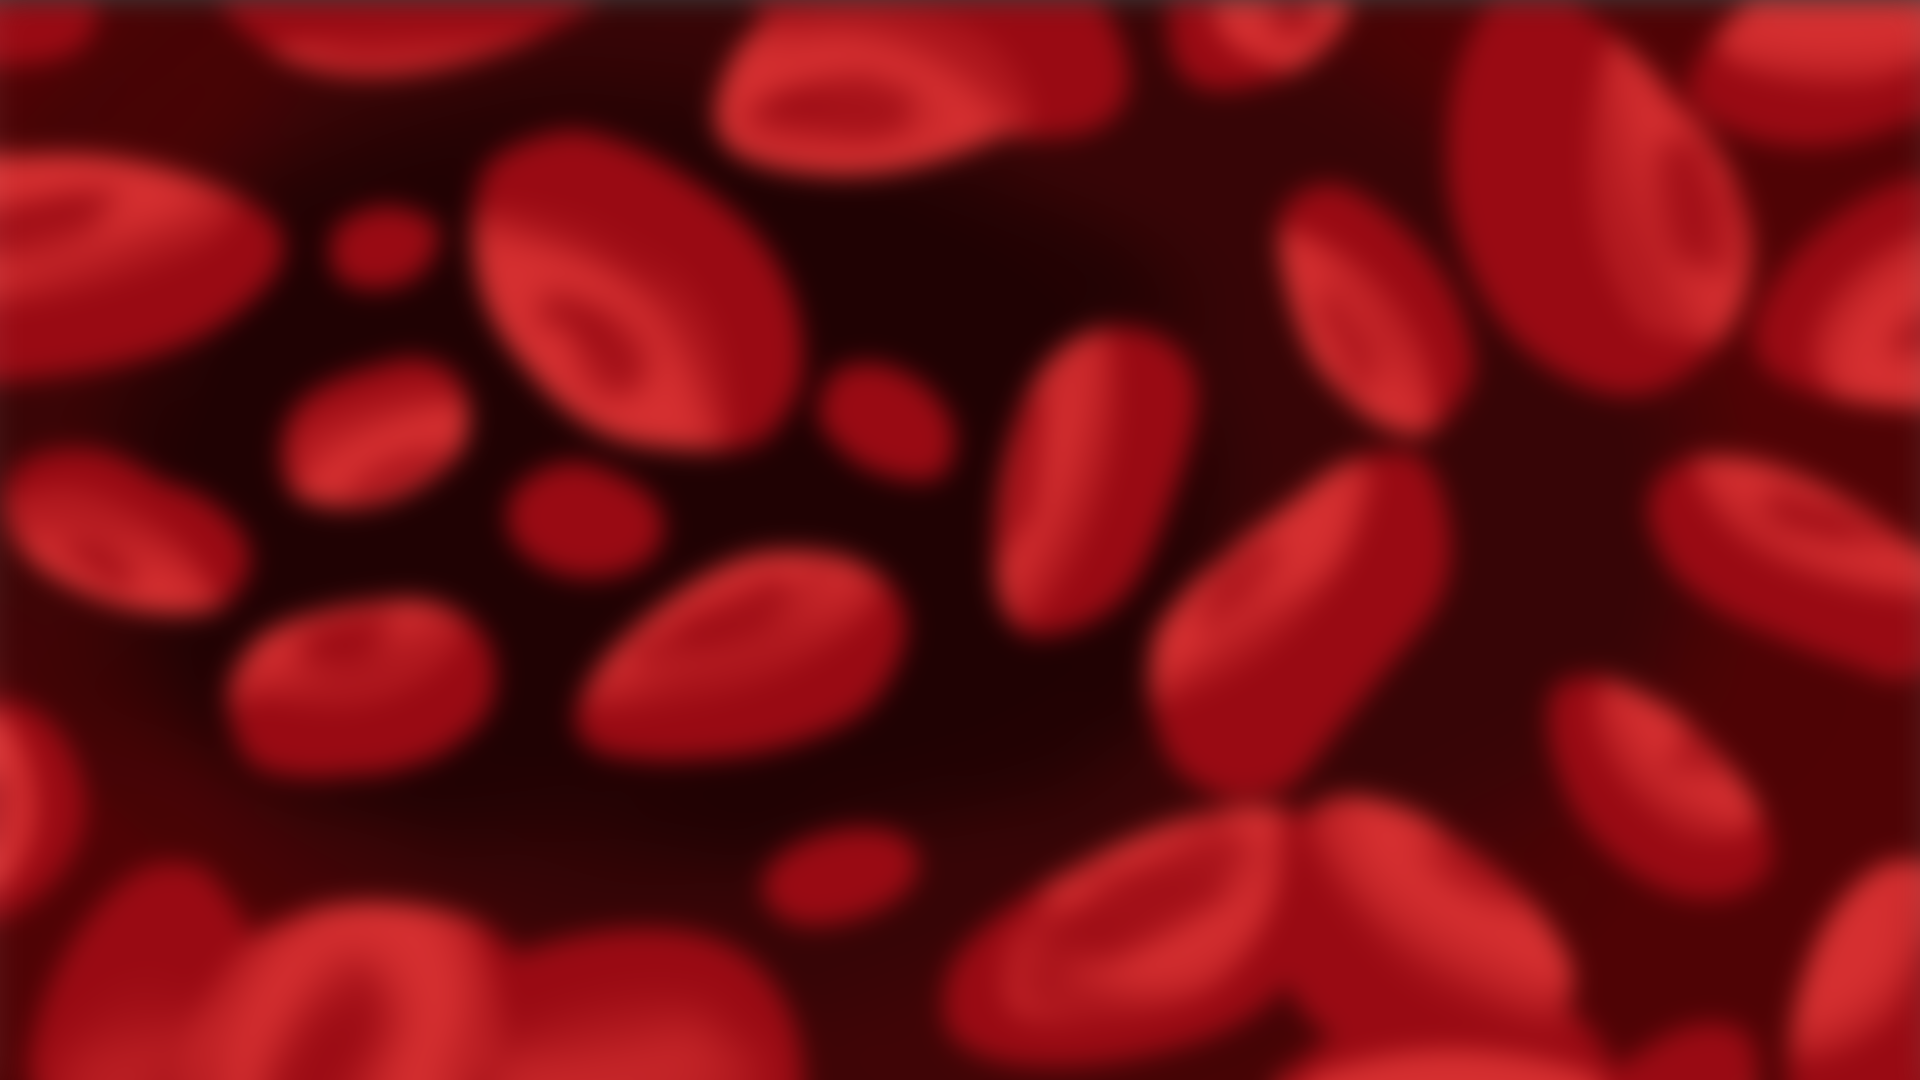
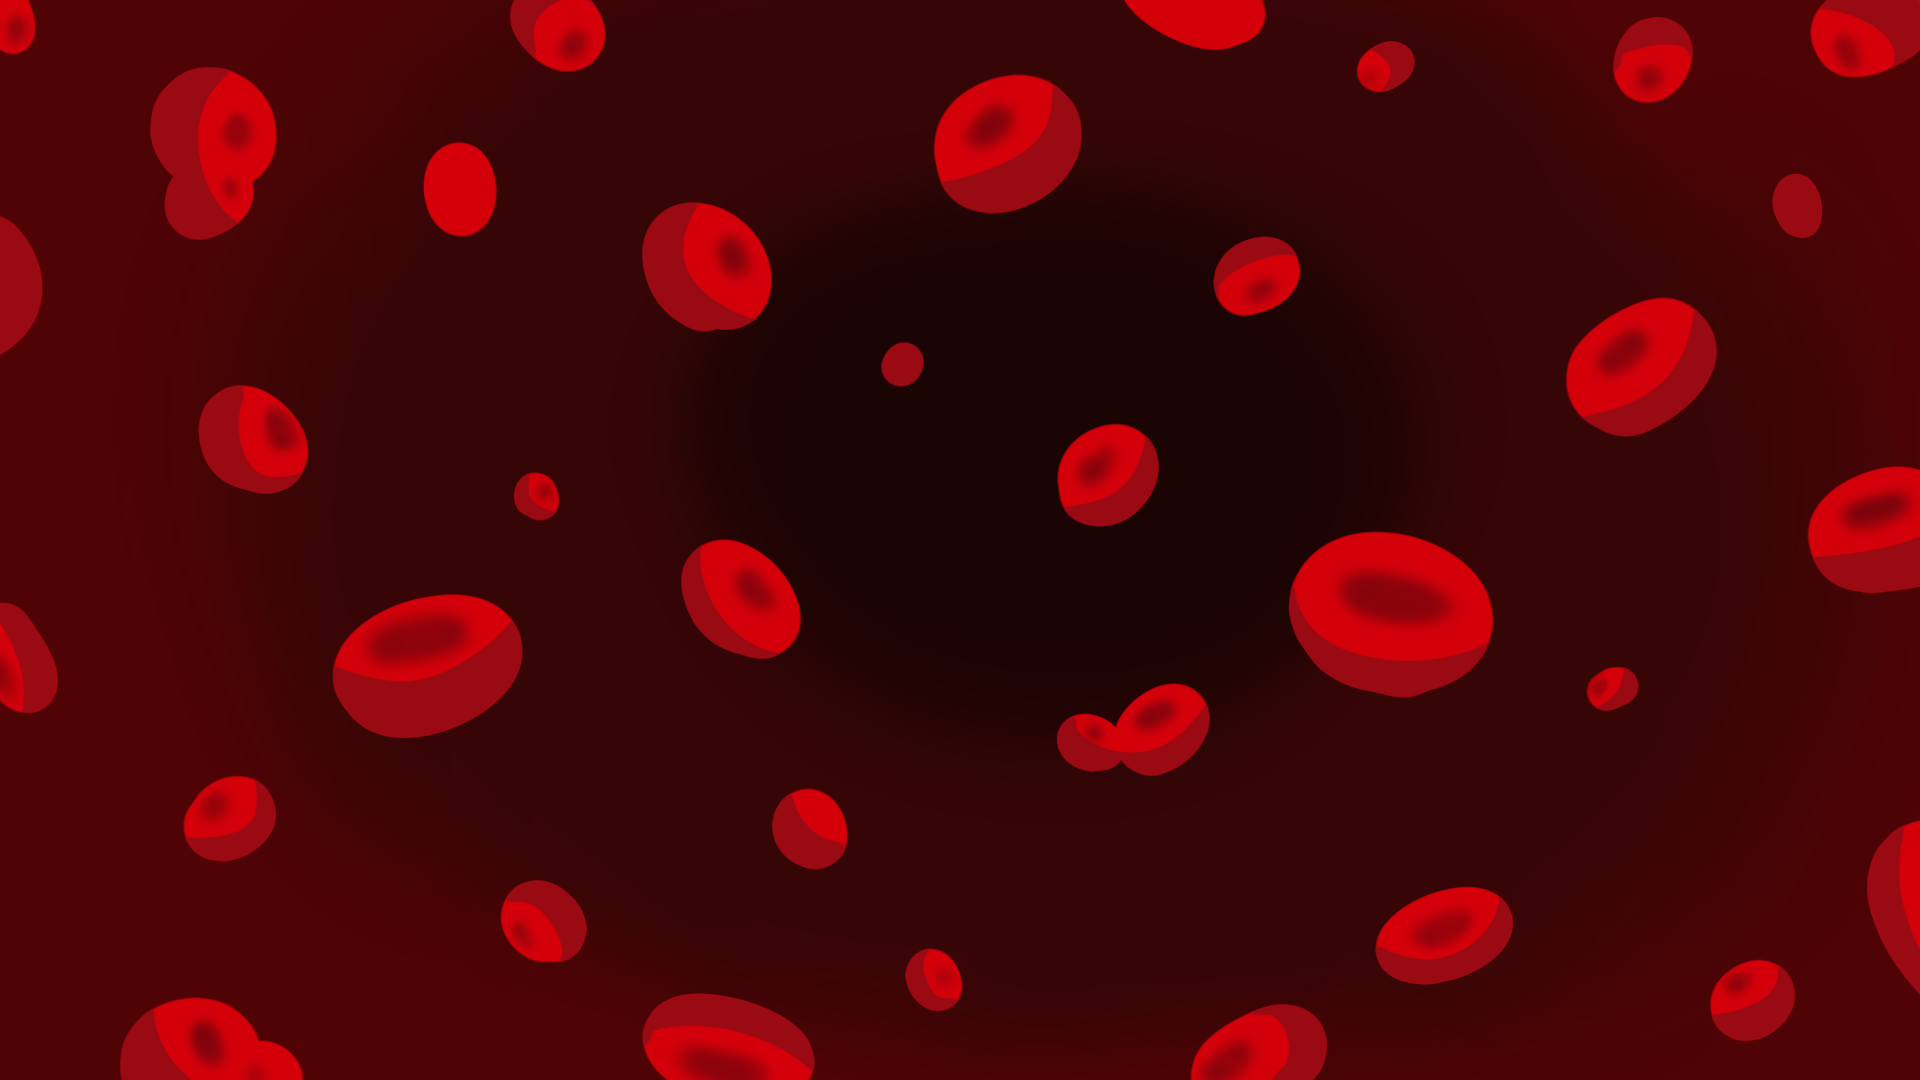
이미지 변경 및 기억안남

diff --git a/Space/Monster.cpp b/Space/Monster.cpp
@@ -13,59 +13,110 @@ Monster::Monster(int Version)
 	,disc(30)
 	,didr(30)
 {
-	srand(time(NULL));
+	
 	m_Version = Version;
-	if (Version == 1)
+	if (m_Version == 1)
 	{
-		m_Monster = Sprite::Create(L"Painting/SpeedMonster.png");
+		m_Monster = Sprite::Create(L"Painting/SpeedMonster1.png");
 		m_Monster->SetParent(this);
 
 		int randomx = rand() % 1900 + 10;
 		int randomy = rand() % 1070 + 10;
-
+		printf("%d %d \n", randomx, randomy);
 		SetPosition(randomx, randomy);
 
 		m_BossCheck = false;
 	}
-	else if (Version == 2)
+	else if (m_Version == 2)
 	{
-		m_Monster = Sprite::Create(L"Painting/BigMonster.png");
+		m_Monster = Sprite::Create(L"Painting/BigMonster1.png");
 		m_Monster->SetParent(this);
 
 		int randomx = rand() % 1900 + 10;
 		int randomy = rand() % 1070 + 10;
-
+		printf("%d %d \n", randomx, randomy);
 		SetPosition(randomx, randomy);
 
 		m_BossCheck = false;
 	}
-	else if (Version == 3)
+	else if (m_Version == 3)
 	{
-		m_Monster = Sprite::Create(L"Painting/FlashMonster.png");
+		m_Monster = Sprite::Create(L"Painting/FlashMonster1.png");
 		m_Monster->SetParent(this);
-
-		int randomx = rand() % 1900 + 10;
-		int randomy = rand() % 1070 + 10;
-
-		SetPosition(randomx, randomy);
+		
+		int randox = rand() % 1900 + 10;
+		int randoy = rand() % 1070 + 10;
+		printf("%d %d \n", randox, randoy);
+		SetPosition(randox, randoy);
 
 		m_BossCheck = false;
 	}
-	else if (Version == 4)
+	else if (m_Version == 4)
 	{
 		m_Monster = Sprite::Create(L"Painting/Boss.png");
 		m_Monster->SetParent(this);
 
 		int randomx = rand() % 1900 + 10;
 		int randomy = rand() % 1070 + 10;
-
+		printf("%d %d \n", randomx, randomy);
 		SetPosition(randomx, randomy);
 		m_BossCheck = true;
 	}
 
-	m_bPlayer = new Player();
 	
 	
+}
+
+Monster::Monster(int version, Vec2 pos)
+{
+	//m_Version = version;
+	//if (Version == 1)
+	//{
+	//	m_Monster = Sprite::Create(L"Painting/SpeedMonster1.png");
+	//	m_Monster->SetParent(this);
+
+	//	int randomx = rand() % 1900 + 10;
+	//	int randomy = rand() % 1070 + 10;
+	//	printf("%d %d \n", randomx, randomy);
+	//	SetPosition(randomx, randomy);
+
+	//	m_BossCheck = false;
+	//}
+	//if (Version == 2)
+	//{
+	//	m_Monster = Sprite::Create(L"Painting/BigMonster1.png");
+	//	m_Monster->SetParent(this);
+
+	//	int randomx = rand() % 1900 + 10;
+	//	int randomy = rand() % 1070 + 10;
+	//	printf("%d %d \n", randomx, randomy);
+	//	SetPosition(randomx, randomy);
+
+	//	m_BossCheck = false;
+	//}
+	//if (Version == 3)
+	//{
+	//	m_Monster = Sprite::Create(L"Painting/FlashMonster1.png");
+	//	m_Monster->SetParent(this);
+
+	//	int randox = rand() % 1900 + 10;
+	//	int randoy = rand() % 1070 + 10;
+	//	printf("%d %d \n", randox, randoy);
+	//	SetPosition(randox, randoy);
+
+	//	m_BossCheck = false;
+	//}
+	//if (Version == 4)
+	//{
+	//	m_Monster = Sprite::Create(L"Painting/Boss.png");
+	//	m_Monster->SetParent(this);
+
+	//	int randomx = rand() % 1900 + 10;
+	//	int randomy = rand() % 1070 + 10;
+	//	printf("%d %d \n", randomx, randomy);
+	//	SetPosition(randomx, randomy);
+	//	m_BossCheck = true;
+	//}
 }
 
 void Monster::Update(float deltatime, float time)
@@ -91,91 +142,6 @@ void Monster::Update(float deltatime, float time)
 	}
 
 
-
-	if (m_bPlayer->i >=1 && m_bPlayer->m_Length >=2 && (
-		(dist == 0 && disk == 0) ||
-		(dist == 0 && disc == 0) ||
-		(dist == 0 && didr == 0) ||
-		(disc == 0 && didr == 0) ||
-		(disc == 0 && disk == 0) ||
-		(disk == 0 && didr == 0)))
-	{
-		int x1 = m_bPlayer->m_PlayerPos[0].x < m_bPlayer->m_PlayerPos[1].x ? m_bPlayer->m_PlayerPos[0].x : m_bPlayer->m_PlayerPos[1].x;
-		int y1 = m_bPlayer->m_PlayerPos[0].y < m_bPlayer->m_PlayerPos[1].y ? m_bPlayer->m_PlayerPos[0].y : m_bPlayer->m_PlayerPos[1].y;
-		int x2 = m_bPlayer->m_PlayerPos[0].x > m_bPlayer->m_PlayerPos[1].x ? m_bPlayer->m_PlayerPos[0].x : m_bPlayer->m_PlayerPos[1].x;
-		int y2 = m_bPlayer->m_PlayerPos[0].y > m_bPlayer->m_PlayerPos[1].y ? m_bPlayer->m_PlayerPos[0].y : m_bPlayer->m_PlayerPos[1].y;
-
-		int x3 = m_bPlayer->m_PlayerPos[1].x < m_bPlayer->m_PlayerPos[2].x ? m_bPlayer->m_PlayerPos[1].x : m_bPlayer->m_PlayerPos[2].x;
-		int y3 = m_bPlayer->m_PlayerPos[1].y < m_bPlayer->m_PlayerPos[2].y ? m_bPlayer->m_PlayerPos[1].y : m_bPlayer->m_PlayerPos[2].y;
-		int x4 = m_bPlayer->m_PlayerPos[1].x > m_bPlayer->m_PlayerPos[2].x ? m_bPlayer->m_PlayerPos[1].x : m_bPlayer->m_PlayerPos[2].x;
-		int y4 = m_bPlayer->m_PlayerPos[1].y > m_bPlayer->m_PlayerPos[2].y ? m_bPlayer->m_PlayerPos[1].y : m_bPlayer->m_PlayerPos[2].y;
-
-		int x5 = m_bPlayer->m_PlayerPos[2].x < m_bPlayer->m_PlayerPos[3].x ? m_bPlayer->m_PlayerPos[2].x : m_bPlayer->m_PlayerPos[3].x;
-		int y5 = m_bPlayer->m_PlayerPos[2].y < m_bPlayer->m_PlayerPos[3].y ? m_bPlayer->m_PlayerPos[2].y : m_bPlayer->m_PlayerPos[3].y;
-		int x6 = m_bPlayer->m_PlayerPos[2].x > m_bPlayer->m_PlayerPos[3].x ? m_bPlayer->m_PlayerPos[2].x : m_bPlayer->m_PlayerPos[3].x;
-		int y6 = m_bPlayer->m_PlayerPos[2].y > m_bPlayer->m_PlayerPos[3].y ? m_bPlayer->m_PlayerPos[2].y : m_bPlayer->m_PlayerPos[3].y;
-
-		int x7 = m_bPlayer->m_PlayerPos[3].x < m_bPlayer->m_PlayerPos[4].x ? m_bPlayer->m_PlayerPos[3].x : m_bPlayer->m_PlayerPos[4].x;
-		int y7 = m_bPlayer->m_PlayerPos[3].y < m_bPlayer->m_PlayerPos[4].y ? m_bPlayer->m_PlayerPos[3].y : m_bPlayer->m_PlayerPos[4].y;
-		int x8 = m_bPlayer->m_PlayerPos[3].x > m_bPlayer->m_PlayerPos[4].x ? m_bPlayer->m_PlayerPos[3].x : m_bPlayer->m_PlayerPos[4].x;
-		int y8 = m_bPlayer->m_PlayerPos[3].y > m_bPlayer->m_PlayerPos[4].y ? m_bPlayer->m_PlayerPos[3].y : m_bPlayer->m_PlayerPos[4].y;
-
-		if (dist < 10 && m_Position.x >= x1 - 10 && m_Position.x <= x2 + 10 && m_Position.y >= y1 - 10 && m_Position.y <= y2 + 10)
-		{
-			if (m_CollideCheck == false)
-			{
-				m_bPlayer->m_PlayerHp -= 1;
-			}
-			m_CollideCheck = true;
-		}
-		else if (disc < 10 && m_Position.x >= x3 - 10 && m_Position.x <= x4 + 01 && m_Position.y >= y3 -10 && m_Position.y <= y4 + 9)
-		{
-			if (m_CollideCheck == false)
-			{
-				m_bPlayer->m_PlayerHp -= 1;
-			}
-			m_CollideCheck = true;
-		}
-		else if (disk < 10 && m_Position.x >= x5 - 10 && m_Position.x <= x6 + 10 && m_Position.y >= y5 - 10 && m_Position.y <= y6 + 9)
-		{
-			if (m_CollideCheck == false)
-			{
-				m_bPlayer->m_PlayerHp -= 1;
-			}
-			m_CollideCheck = true;
-		}
-		else if (didr < 10 && m_Position.x >= x7 - 10 && m_Position.x <= x8 + 10 && m_Position.y >= y7 - 10 && m_Position.y <= y8 + 9)
-		{
-			if (m_CollideCheck == false)
-			{
-				m_bPlayer->m_PlayerHp -= 1;
-			}
-			m_CollideCheck = true;
-		}
-		else
-		{
-			m_CollideCheck = false;
-		}
-	}
-	a = m_bPlayer->m_PlayerPos[0].y - m_bPlayer->m_PlayerPos[1].y;
-	b = m_bPlayer->m_PlayerPos[1].x - m_bPlayer->m_PlayerPos[0].x;
-	c = m_bPlayer->m_PlayerPos[0].x * m_bPlayer->m_PlayerPos[1].y - m_bPlayer->m_PlayerPos[1].x * m_bPlayer->m_PlayerPos[0].y;
-	dist = (float)std::abs(a * m_Position.x + b * m_Position.y + c) / (float)std::sqrt(a * a + b * b);
-
-	d = m_bPlayer->m_PlayerPos[1].y - m_bPlayer->m_PlayerPos[2].y;
-	e = m_bPlayer->m_PlayerPos[2].x - m_bPlayer->m_PlayerPos[1].x;
-	f = m_bPlayer->m_PlayerPos[1].x * m_bPlayer->m_PlayerPos[2].y - m_bPlayer->m_PlayerPos[2].x * m_bPlayer->m_PlayerPos[1].y;
-	disk = (float)std::abs(d * m_Position.x + e * m_Position.y + f) / (float)std::sqrt(d * d + e * e);
-
-	g = m_bPlayer->m_PlayerPos[2].y - m_bPlayer->m_PlayerPos[3].y;
-	h = m_bPlayer->m_PlayerPos[3].x - m_bPlayer->m_PlayerPos[2].x;
-	j = m_bPlayer->m_PlayerPos[2].x * m_bPlayer->m_PlayerPos[3].y - m_bPlayer->m_PlayerPos[3].x * m_bPlayer->m_PlayerPos[2].y;
-	disc = (float)std::abs(g * m_Position.x + h * m_Position.y + j) / (float)std::sqrt(g * g + h * h);
-
-	k = m_bPlayer->m_PlayerPos[3].y - m_bPlayer->m_PlayerPos[4].y;
-	l = m_bPlayer->m_PlayerPos[4].x - m_bPlayer->m_PlayerPos[3].x;
-	m = m_bPlayer->m_PlayerPos[3].x * m_bPlayer->m_PlayerPos[4].y - m_bPlayer->m_PlayerPos[4].x * m_bPlayer->m_PlayerPos[3].y;
-	didr = (float)std::abs(k * m_Position.x + l * m_Position.y + m) / (float)std::sqrt(k * k + l * l);
 
 
 }

diff --git a/Space/MainScene.cpp b/Space/MainScene.cpp
@@ -19,7 +19,7 @@ MainScene::~MainScene()
 void MainScene::Init()
 {
 	//ObjMgr->AddObject(new asd(), "123");
-	m_Sprite = Sprite::Create(L"Painting/Back1.png");
+	m_Sprite = Sprite::Create(L"Painting/Back3.png");
 	m_Sprite->SetPosition(1920 / 2, 1080 / 2);
 
 }
@@ -28,7 +28,7 @@ void MainScene::Release()
 {
 }
 
-void MainScene::Update(float deltaTime, float time)
+void MainScene::Update(float deltaTime, float Time)
 {
 	if (m_Check == false)
 	{
@@ -42,6 +42,7 @@ void MainScene::Update(float deltaTime, float time)
 
 			if (i >= 1920)
 			{
+
 				ObjMgr->AddObject(new Monster(1), "SpeedMonster");
 				ObjMgr->AddObject(new Monster(2), "BigMonster");
 				ObjMgr->AddObject(new Monster(3), "FlashMonster");
@@ -54,6 +55,18 @@ void MainScene::Update(float deltaTime, float time)
 			}
 		}
 	}
+
+	if (INPUT->GetKey(VK_F9) == KeyState::UP)
+	{
+		m_Sprite = Sprite::Create(L"Painting/Back4.png");
+		m_Sprite->SetPosition(1920 / 2, 1080 / 2);
+	}
+	if (INPUT->GetKey(VK_F10) == KeyState::UP)
+	{
+		m_Sprite = Sprite::Create(L"Painting/Back3.png");
+		m_Sprite->SetPosition(1920 / 2, 1080 / 2);
+	}
+	
 
 
 

diff --git a/Space/Monster.h b/Space/Monster.h
@@ -9,6 +9,7 @@ public:
 	Player* m_bPlayer;
 
 	Monster(int version);
+	Monster(int version, Vec2 pos);
 	
 	int m_Version;
 
